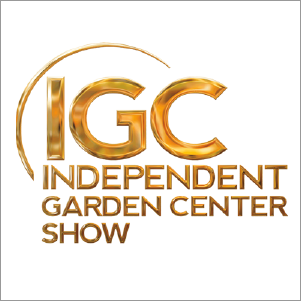
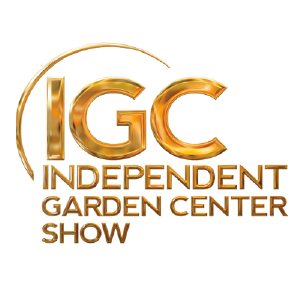
Updated partner vectors & rasters.

Changed region(s): [[0.0, 0.0, 1.0, 1.0]]

diff --git a/app/components/Sections/Partners/Partners.js b/app/components/Sections/Partners/Partners.js
@@ -20,7 +20,7 @@ function Partners() {
                   description={'Lorem ipsum.'}
                   size="medium"
                   shape="rounded"
-                  src="images/ace-logo.png"
+                  src="images/ace-logo.svg"
                   href="#"
                   alt="Partner Placeholder"
                 />
@@ -40,7 +40,7 @@ function Partners() {
                   description={'Lorem ipsum.'}
                   size="medium"
                   shape="rounded"
-                  src="images/canadian-tire-logo.png"
+                  src="images/canadian-tire-logo.svg"
                   href="#"
                   alt="Partner Placeholder"
                 />
@@ -52,7 +52,7 @@ function Partners() {
                   description={'Lorem ipsum.'}
                   size="medium"
                   shape="rounded"
-                  src="images/home-depot-logo.png"
+                  src="images/home-depot-logo.svg"
                   href="#"
                   alt="Partner Placeholder"
                 />

diff --git a/app/components/Sections/Summary/Summary.js b/app/components/Sections/Summary/Summary.js
@@ -22,6 +22,7 @@ function Summary(props) {
                   width="600"
                   height="200"
                   fluid
+                  bordered
                 />
               </Grid.Column>
             </Grid.Row>

diff --git a/app/components/Image/DimmedImage/DimmedImage.js b/app/components/Image/DimmedImage/DimmedImage.js
@@ -48,6 +48,7 @@ class DimmedImage extends React.Component {
         src={this.props.src}
         href={this.props.href}
         alt={this.props.alt}
+        bordered
       />
     );
   }
